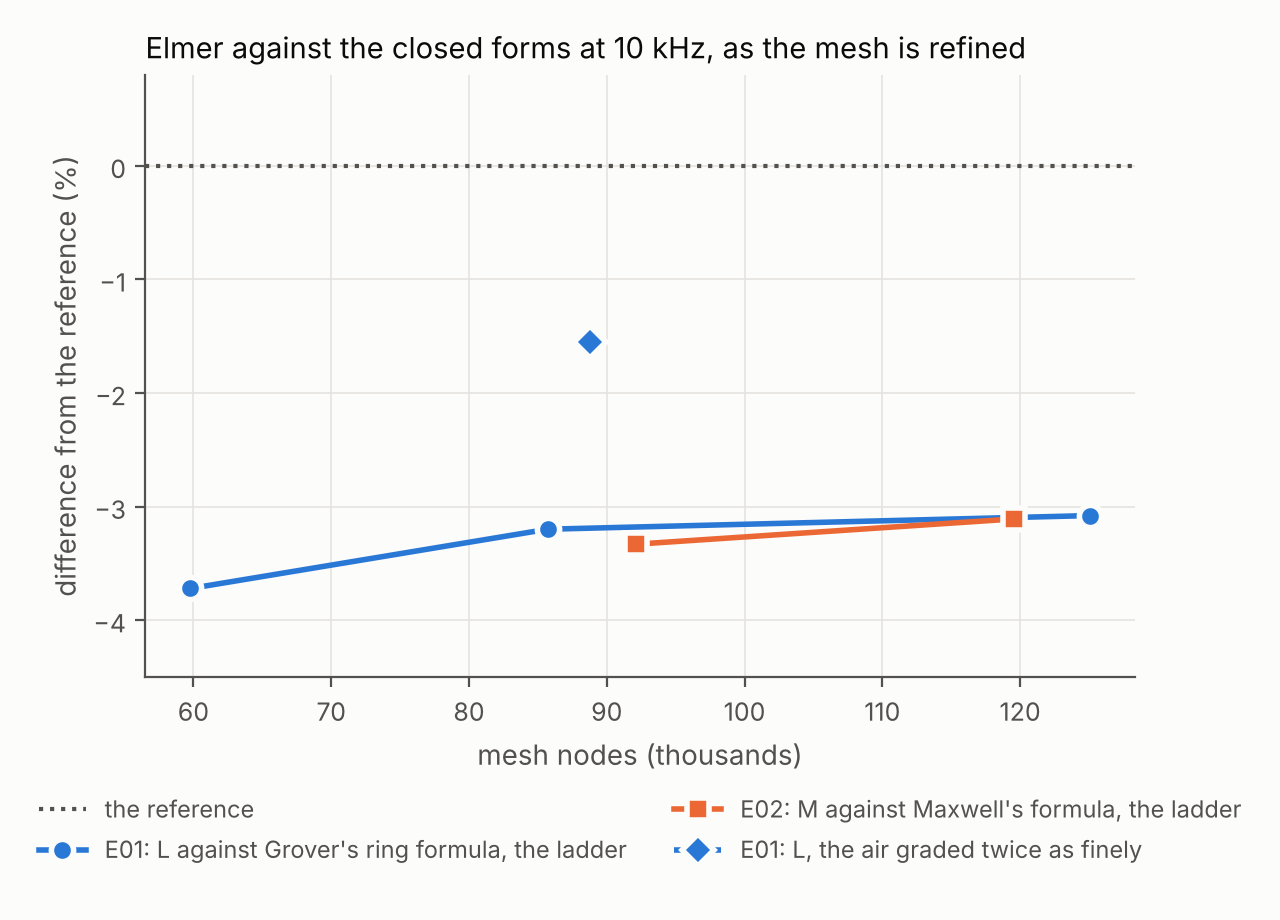
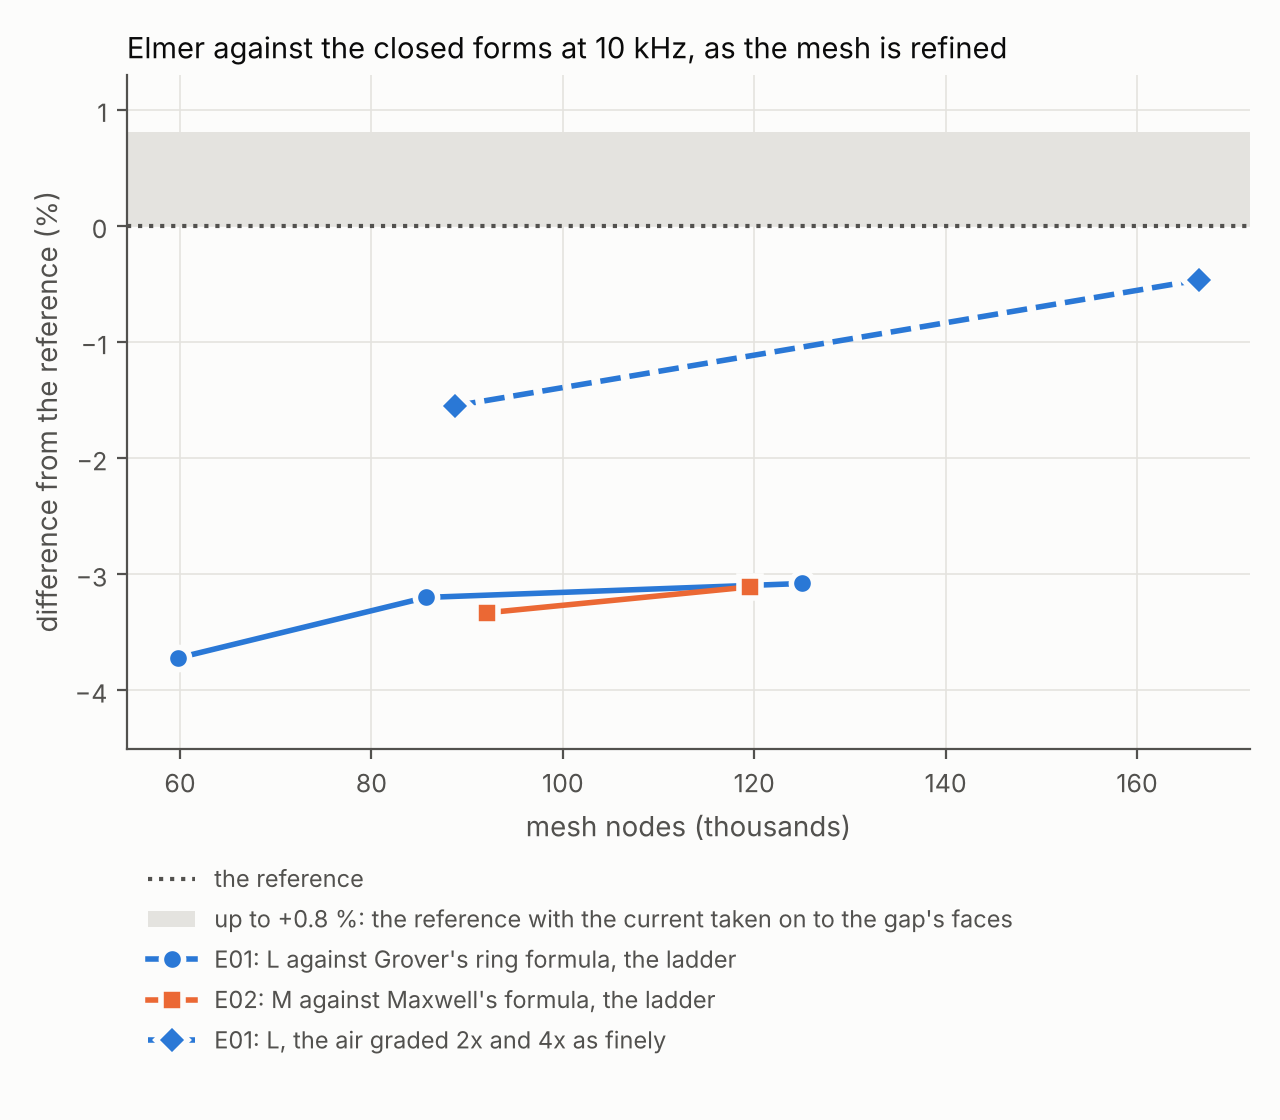
Elmer pages: with the air four times as fine, L is 0.46 % under the reference
Adds the second finer-air run to Accuracy, Results, Troubleshooting,
Simulating, Hardware and the comparison page, and the reference's own band
(a lower bound by up to 0.8 %) to the chart and the text.

diff --git a/docs/wiki/Elmer-FEM-Accuracy.md b/docs/wiki/Elmer-FEM-Accuracy.md
@@ -12,9 +12,9 @@ Each line changes one thing and keeps the rest; all are L at 10 kHz.
 |---|---|---|
 | The copper's mesh | level 0.75 → 1 → 1.3 (59,782, 85,712, 125,043 nodes) | +0.54 %, then +0.12 % |
 | The iterative solve | level 1 at 1500 and at 3000 iterations | +0.17 % with the doubled cap |
-| The air's mesh | level 0.75 with the air graded twice as finely (`grade` 0.25, `tet_grade` 0.35): 88,760 nodes against 59,782 | **+2.3 %** |
-| The reference's open-loop share | the gap is 1.1 % of the circle; the share is a first-order estimate | a small part of the 1.1 %, either way |
-| **Elmer against the reference** | Grover's ring formula with the trace's GMD | **−3.1 % at level 1.3; −1.55 % at level 0.75 with the finer air** |
+| The air's mesh | level 0.75 with the air graded twice as finely (`grade` 0.25, `tet_grade` 0.35; 88,760 nodes against 59,782), then four times (0.125 and 0.175; 166,471 nodes) | **+2.3 %, then +1.1 %** |
+| The reference's open-loop share | with the sheet across the gap, the coil's voltage is the flux through the whole circle, so L is the closed ring's L times the share of the circle the current runs in; the reference ends that share at the round ends' centres, but the current runs on into the half-discs | the reference is a lower bound: up to 0.8 % higher (56.44 nH) with the current taken on to the gap's faces |
+| **Elmer against the reference** | Grover's ring formula with the trace's GMD | **−3.1 % at level 1.3; −0.46 % at level 0.75 with the air four times as fine** |
 
 The ladder in the first line refines only the copper's mesh: a level divides `h_edge`, `h_in` and
 `dz_copper` and leaves the air's grading as it is. Its small last step made the answer look
@@ -31,8 +31,11 @@ covers it too.
 
 ![E01's mesh at level 0.75, cut through the loop's axis, 4 mm by 4 mm round one crossing of the trace. Left, the examples' grading (grade 0.5, tet_grade 0.7; 59,782 nodes, L 3.7 % low): the tetrahedra above and below the thin band of wedges grow to about a millimetre within a millimetre of the copper. Right, twice as fine (grade 0.25, tet_grade 0.35; 88,760 nodes, L 1.55 % low): the elements stay smaller round the trace](https://raw.githubusercontent.com/RolandThsive/KiCad-EM-Stackup-Exporter-KESE/main/docs/images/Elmer-FEM-Accuracy/E01_circular_loop/elmeraccuracy_1_air_mesh.webp)
 
-What is left, 1.55 %, has not yet been split between the air's mesh, the iterations and the domain.
-A ladder that refines the air with the copper is the fix this points to; it is not yet in the bridge
+Graded four times as finely, the air brings L to 0.46 % under the reference, with 166,471 nodes.
+Each halving of the grading halved the change, so the air's mesh is converging but not done, and the
+copper's ladder showed another +0.7 % from level 0.75 to 1.3. Against that stands the reference's
+own band, from 0 to +0.8 %: what is left is of the same size, and E01 cannot measure it. A ladder that
+refines the air with the copper is the fix this points to; it is not yet in the bridge
 ([Future Upgrades And Planning](Future-Upgrades-And-Planning.md)).
 
 ## 30.2 The Iterative Solve
@@ -69,7 +72,7 @@ converges, none of this applies.
 
 | Quantity | On boards like E01 and E02 |
 |---|---|
-| L and M at 10 kHz | 3 to 4 % low with the examples' air grading, 1.55 % low (E01) with the air graded twice as finely; rising with every refinement: a lower bound |
+| L and M at 10 kHz | 3 to 4 % low with the examples' air grading; 0.46 % low on E01 with the air graded four times as finely, which is within the reference's own uncertainty; rising with every refinement: a lower bound |
 | L and M at 3.5 MHz | the same mesh error; the iterative solve converges, so no iteration error on top |
 | R at 10 kHz | within 0.5 % |
 | R at 3.5 MHz, skin and proximity effect | no exact reference, and not yet settled with the mesh: it fell 1.2 % from level 0.75 to level 1; the change against 10 kHz (+29 %) and the RX's share on E02 (+1.5 mΩ) behave as they should |

diff --git a/docs/wiki/Elmer-FEM-Test-Board-Results.md b/docs/wiki/Elmer-FEM-Test-Board-Results.md
@@ -31,16 +31,19 @@ One circular trace, 10 mm in radius to its centre line, 0.5 mm wide and 35 µm t
 | R at 3.5 MHz | | 80.19 mΩ | 79.25 mΩ | |
 
 The reference L is Grover's ring formula μ0 R (ln(8R / g) − 2), with the rectangle's geometric mean
-distance g = 0.2235 (w + t), times the share of the circle the copper covers (0.989). The reference
-R is the annular sector's DC resistance. At 3.5 MHz the skin depth (35 µm) equals the copper's
+distance g = 0.2235 (w + t), times the share of the circle the copper covers (0.989) up to the round
+ends' centres; since the current runs on into the half-discs, it is a lower bound, by up to 0.8 %.
+The reference R is the annular sector's DC resistance. At 3.5 MHz the skin depth (35 µm) equals the copper's
 thickness, and no formula is exact there.
 
-![E01's L and E02's M at 10 kHz, as a percentage off their references, against the mesh's nodes in thousands: E01 rises from −3.7 % at 60,000 nodes to −3.2 % at 86,000 and −3.1 % at 125,000; E02 rises from −3.3 % at 92,000 nodes to −3.1 % at 120,000; E01 with the air graded twice as finely sits at −1.55 % with 89,000 nodes](https://raw.githubusercontent.com/RolandThsive/KiCad-EM-Stackup-Exporter-KESE/main/docs/images/Elmer-FEM-Test-Board-Results/elmerresults_1_against_reference.webp)
+![E01's L and E02's M at 10 kHz, as a percentage off their references, against the mesh's nodes in thousands: E01 rises from −3.7 % at 60,000 nodes to −3.2 % at 86,000 and −3.1 % at 125,000; E02 rises from −3.3 % at 92,000 nodes to −3.1 % at 120,000; E01 with the air graded twice and four times as finely rises from −1.55 % at 89,000 nodes to −0.46 % at 166,000; a grey band from 0 to +0.8 % shows the reference's own uncertainty](https://raw.githubusercontent.com/RolandThsive/KiCad-EM-Stackup-Exporter-KESE/main/docs/images/Elmer-FEM-Test-Board-Results/elmerresults_1_against_reference.webp)
 
 L rises as the mesh is refined, as it should with first-order edge elements, but along the ladder it
 levels off about 3 % under the reference. The ladder refines only the copper's mesh. Grading the air
-twice as finely at level 0.75 (the diamond) brings L to 1.55 % under the reference, with about
-as many nodes as level 1: the air's mesh round the copper holds most of the gap
+twice and four times as finely at level 0.75 (the diamonds) brings L to 1.55 % and then 0.46 % under
+the reference: the air's mesh round the copper holds most of the gap. The grey band is the
+reference's own uncertainty: it ends the current at the round ends' centres, and with the current
+taken on to the gap's faces it is 0.8 % higher
 ([Elmer FEM Accuracy](Elmer-FEM-Accuracy.md#301-the-error-budget-on-e01)). The circuit's L and the
 field energy's agree within 0.05 % at every level, so the electrodes, the sheet across the gap and
 Elmer's circuit read back the inductance the field holds. R is 0.5 % high, as it should be: the

diff --git a/docs/wiki/Elmer-FEM-Hardware.md b/docs/wiki/Elmer-FEM-Hardware.md
@@ -26,8 +26,9 @@ Linux while it runs and writes it into `results.json`.
 | E02, level 1 | 119,559 | 6.74 GB | 59 kB |
 | E01, level 1.3 | 125,043 | 7.09 GB | 59 kB |
 | E01, level 0.75 with the air graded twice as finely | 88,760 | 5.11 GB | 60 kB |
+| E01, level 0.75 with the air graded four times as finely | 166,471 | 9.73 GB | 61 kB |
 
-Six meshes from 60,000 to 125,000 nodes cost 59 to 60 kB per node, at both frequencies (Linux
+Seven meshes from 60,000 to 166,000 nodes cost 59 to 61 kB per node, at both frequencies (Linux
 counts in kibibytes, so a GB here is 1,073,741,824 bytes). The memory does not depend on the
 frequency or on the number of iterations: BiCGStab(l) keeps a fixed number of vectors.
 
@@ -41,6 +42,7 @@ frequency or on the number of iterations: BiCGStab(l) keeps a fixed number of ve
 | E02, level 1 | 12 s | 22 min, 1500 iterations (the cap) | 10 min, 1147 iterations |
 | E01, level 1.3 | 16 s | 45 min, 3000 iterations (the cap) | |
 | E01, level 0.75 with the air graded twice as finely | 15 s | 18 min, 3000 iterations (the cap) | |
+| E01, level 0.75 with the air graded four times as finely | 44 s | 36 min, 3000 iterations (the cap) | |
 
 Most runs shared the machine with openEMS runs or with each other's meshing, so their times are what
 they took, not what the machine can do: E02 at level 0.75, with the machine to itself, needed 3.9 µs
@@ -81,7 +83,7 @@ stator's length of copper, about 61 GB per metre. Every one needs more than the 
 ([Elmer FEM Test Boards](Elmer-FEM-Test-Boards.md#283-the-ten-inductive-encoder-boards)). These are
 for the examples' air grading; with the air graded twice as finely, as E01's accuracy calls for
 ([Elmer FEM Accuracy](Elmer-FEM-Accuracy.md#301-the-error-budget-on-e01)), E01's mesh grew by half,
-and a coil board's growth has not been measured.
+and 2.8 times at four times as fine; a coil board's growth has not been measured.
 
 Three ways would bring them closer, none of them tried yet:
 

diff --git a/docs/wiki/Elmer-FEM-Troubleshooting.md b/docs/wiki/Elmer-FEM-Troubleshooting.md
@@ -29,7 +29,7 @@ a case changed by hand.
 | Symptom | Cause | Fix |
 |---|---|---|
 | Very slow convergence, many sliver tetrahedra | The disc's rim was much finer than the far-field size, and the tetrahedra were not optimised | The rim is sized to `h_max` (`disc(..., h=h_max)`) and gmsh's Netgen optimiser runs after the 3D mesh; together they cut the tetrahedra four-fold |
-| L or M a few percent low, while the mesh ladder's last step is small | The ladder divides only the copper's sizes; the air's grading (`grade`, `tet_grade`) stays as it is, and the elements round the copper grow too fast | Run one level again with both halved (`--mesh grade=0.25 --mesh tet_grade=0.35` for the examples) and its own `--results`: on E01 L rose 2.3 %, from 3.7 % to 1.55 % under the reference ([Elmer FEM Accuracy](Elmer-FEM-Accuracy.md#301-the-error-budget-on-e01)) |
+| L or M a few percent low, while the mesh ladder's last step is small | The ladder divides only the copper's sizes; the air's grading (`grade`, `tet_grade`) stays as it is, and the elements round the copper grow too fast | Run one level again with both halved (`--mesh grade=0.25 --mesh tet_grade=0.35` for the examples) and its own `--results`: on E01 L rose 2.3 %, from 3.7 % to 1.55 % under the reference, and to 0.46 % with both quartered ([Elmer FEM Accuracy](Elmer-FEM-Accuracy.md#301-the-error-budget-on-e01)) |
 | A board with vias gets dozens of wedge layers through the board | The dielectric slab held copper (the via barrels), so it was given the copper's thin layers | Only slabs up to `foil_max` (0.15 mm) count as copper foils; S2 went from 96 layers to 17 |
 | `the new layout has other slabs: its parts moved in z` | `relabel()` was given a layout whose parts start or end at other heights | Only move parts in the plane (a rotor turned about the axis) between relabelled runs |
 

diff --git a/docs/wiki/Elmer-FEM-Simulating-Your-Own-Board.md b/docs/wiki/Elmer-FEM-Simulating-Your-Own-Board.md
@@ -62,7 +62,7 @@ These go to `mesh25d.Settings` (in `SETTINGS['mesh']`):
 | `h_edge` | `0.09` | Element size at copper edges, mm. At least three elements across the narrowest trace is a good start |
 | `h_in` | `0.18` | Largest element inside copper, mm |
 | `h_max` | `6.0` | Largest triangle anywhere, mm (the far field) |
-| `grade` | `0.5` | How fast the size grows away from copper, mm per mm. Halved to 0.25 (with `tet_grade` 0.35), E01's L rose 2.3 % with half again the nodes ([Elmer FEM Accuracy](Elmer-FEM-Accuracy.md#301-the-error-budget-on-e01)) |
+| `grade` | `0.5` | How fast the size grows away from copper, mm per mm. Halved to 0.25 (with `tet_grade` 0.35), E01's L rose 2.3 % with half again the nodes; quartered, another 1.1 % with 2.8 times the nodes ([Elmer FEM Accuracy](Elmer-FEM-Accuracy.md#301-the-error-budget-on-e01)) |
 | `dz_copper` | `0.018` | Thickest wedge layer in a copper foil, mm. Half the skin depth or less at the highest frequency (copper: 35 µm at 3.5 MHz) |
 | `dz_max` | `0.4` | Thickest wedge layer elsewhere (through the board, in an air gap), mm |
 | `tet_max` | `8.0` | Largest tetrahedron in the air above and below, mm |

diff --git a/docs/wiki/Elmer-vs-OpenEMS.md b/docs/wiki/Elmer-vs-OpenEMS.md
@@ -26,7 +26,7 @@ question needs.
 | Model size | 85,712 nodes (level 1) | 411,424 cells |
 | Run | 17 minutes at 10 kHz (3000 iterations), 6 minutes at 3.5 MHz | under 2 minutes for 1 to 5 GHz at once |
 | Memory | 4.9 GB | 0.15 GB |
-| Against the reference | L 3 % under Grover's open ring at level 1, 1.55 % with the air graded twice as finely; rising with the mesh (a lower bound) | εeff within 1.5 % of Kirschning–Jansen, Z0 within 2 % of Hammerstad–Jensen |
+| Against the reference | L 3 % under Grover's open ring at level 1, 0.46 % with the air graded four times as finely; rising with the mesh (a lower bound) | εeff within 1.5 % of Kirschning–Jansen, Z0 within 2 % of Hammerstad–Jensen |
 
 Elmer pays for its unstructured mesh and its iterative solve with about 59 kB per node; openEMS
 needs only 60 to 103 bytes per cell (its CPU and default engines), but its cells must resolve the copper's edges and its run
